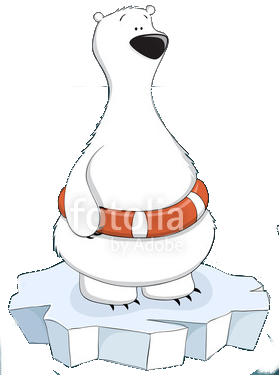
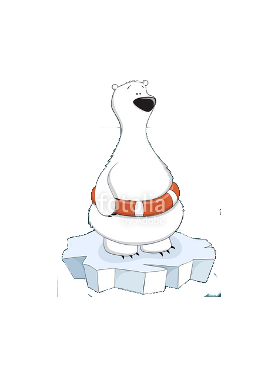
done

diff --git a/game4/index.html b/game4/index.html
@@ -27,16 +27,14 @@ body
 <ul>
 <li><strong>Originality:</strong>
 What is original about my game is
-the process behind its innovation.
-Love, Laughter, and Randomness are
-some of the key ingredients for this
-game!</li>
+the irony of a greedy gambling
+polar bear, riding some waves.</li>
 
 <li><strong>Technical Merit:</strong>
 As the class further progresses I would
 like to showcase my javascript skills.
-I will most definitely use reactjs to
-beautify the UI.</li>
+I will most reevaluate my efforts going
+forward</li>
 
 <li><strong>Prototype Postmortem:</strong>
 What did you learn from this prototype?
@@ -47,7 +45,9 @@ will change as the course progresses.</li>
 <li><strong>Prototype Assets:</strong>
 Did you make your prototype assets from scratch? Did you borrow them? Cite your sources here.
 <ul>
-<li>Main Character <a href="https://pixabay.com/en/football-ball-football-ball-egg-152827/">Football</a></li>
+<li>Main Character <a href="https://pixabay.com/en/football-ball-football-ball-egg-152827/">Polar Bear</a></li>
+<li>Bitcoin <a href="www.greenlifestylechanges.com/how-bad-is-bitcoin-for-the-planet/"> Bitcoin </a> </li>
+<li> Background <a href="google.com">Background</a></li>
 </ul>
 </li>
 
@@ -56,19 +56,19 @@ Not much out there.
 </li>
 
 <li><strong>High Concept:</strong>
-Demonstrates basic physics of a football.
+Demonstrates basic physics of jumping and collisions.
 </li>
 
 <li><strong>Theme:</strong>
-I am using the geologist theme.
+Greedy Polar Bear on ICE cap avoiding his bitcoin addiction!
 </li>
 
 <li><strong>Mandated Variety:</strong>
-Football randomness, bouncy and whatnot.
+Let's avoid the bitcoin!
 </li>
 
 <li><strong>Prototype Goal:</strong>
-Prototyping the different rotations and bounciness.
+Prototyping the different collisions and mouse inputs.
 </li>
 
 <li><strong>Player Experience Goals:</strong>
@@ -76,7 +76,7 @@ Just a fun experience.
 </li>
 
 <li><strong>Gameplay:</strong>
-Move mouse and play with the football!
+Click to jump and don't drown or get bitcoin!
 </li>
 
 <li><strong>Strategies:</strong>
@@ -84,7 +84,7 @@ Have fun!
 </li>
 
 <li><strong>Story/Setting/Premise:</strong>
-Random world of randomness.
+An ocean far far away!.
 </li>
 
 <li><strong>Target Audience:</strong>

diff --git a/game4/js/main.js b/game4/js/main.js
@@ -86,9 +86,12 @@ window.onload = function() {
                     if(this.player.body.bottom >= this.world.bounds.bottom){
                         this.setGameOver();
                     }
+                    this.physics.arcade.collide(this.player, this.walls, this.setGameOver, null, this);
                     this.walls.forEachAlive(function (wall){
                       if(wall.x + wall.width < game.world.bounds.left){
                         wall.kill();
+                      } else if(!wall.scored && wall.x <= state.player.x){
+                        state.addScore(wall);
                       }
                     })
 
@@ -113,6 +116,11 @@ window.onload = function() {
                 },
                 setGameOver: function(){
                   this.gameOver = true;
+                  this.walls.forEachAlive(function (wall){
+                    wall.body.velocity.x = wall.body.velocity.y = 0;
+                  });
+                  this.wallTimer.timer.stop();
+                  this.player.body.velocity.x = 0;
                   this.scoreText.setText("FINAL SCORE\n" + this.score+"\n\nTOUCH TO\n TRY AGAIN");
                   this.timeOver = this.time.now;
                 },
@@ -138,6 +146,12 @@ window.onload = function() {
                   var wallY = this.rnd.integerInRange(game.height*.3, game.height*.7);
                   var botWall = this.spawnWall(wallY);
                   var topWall = this.spawnWall(wallY, true);
+
+                },
+                addScore: function(wall){
+                  wall.scored = true;
+                  this.score += .5;
+                  this.scoreText.setText("SCORE\n"+this.score);
 
                 }
   }
